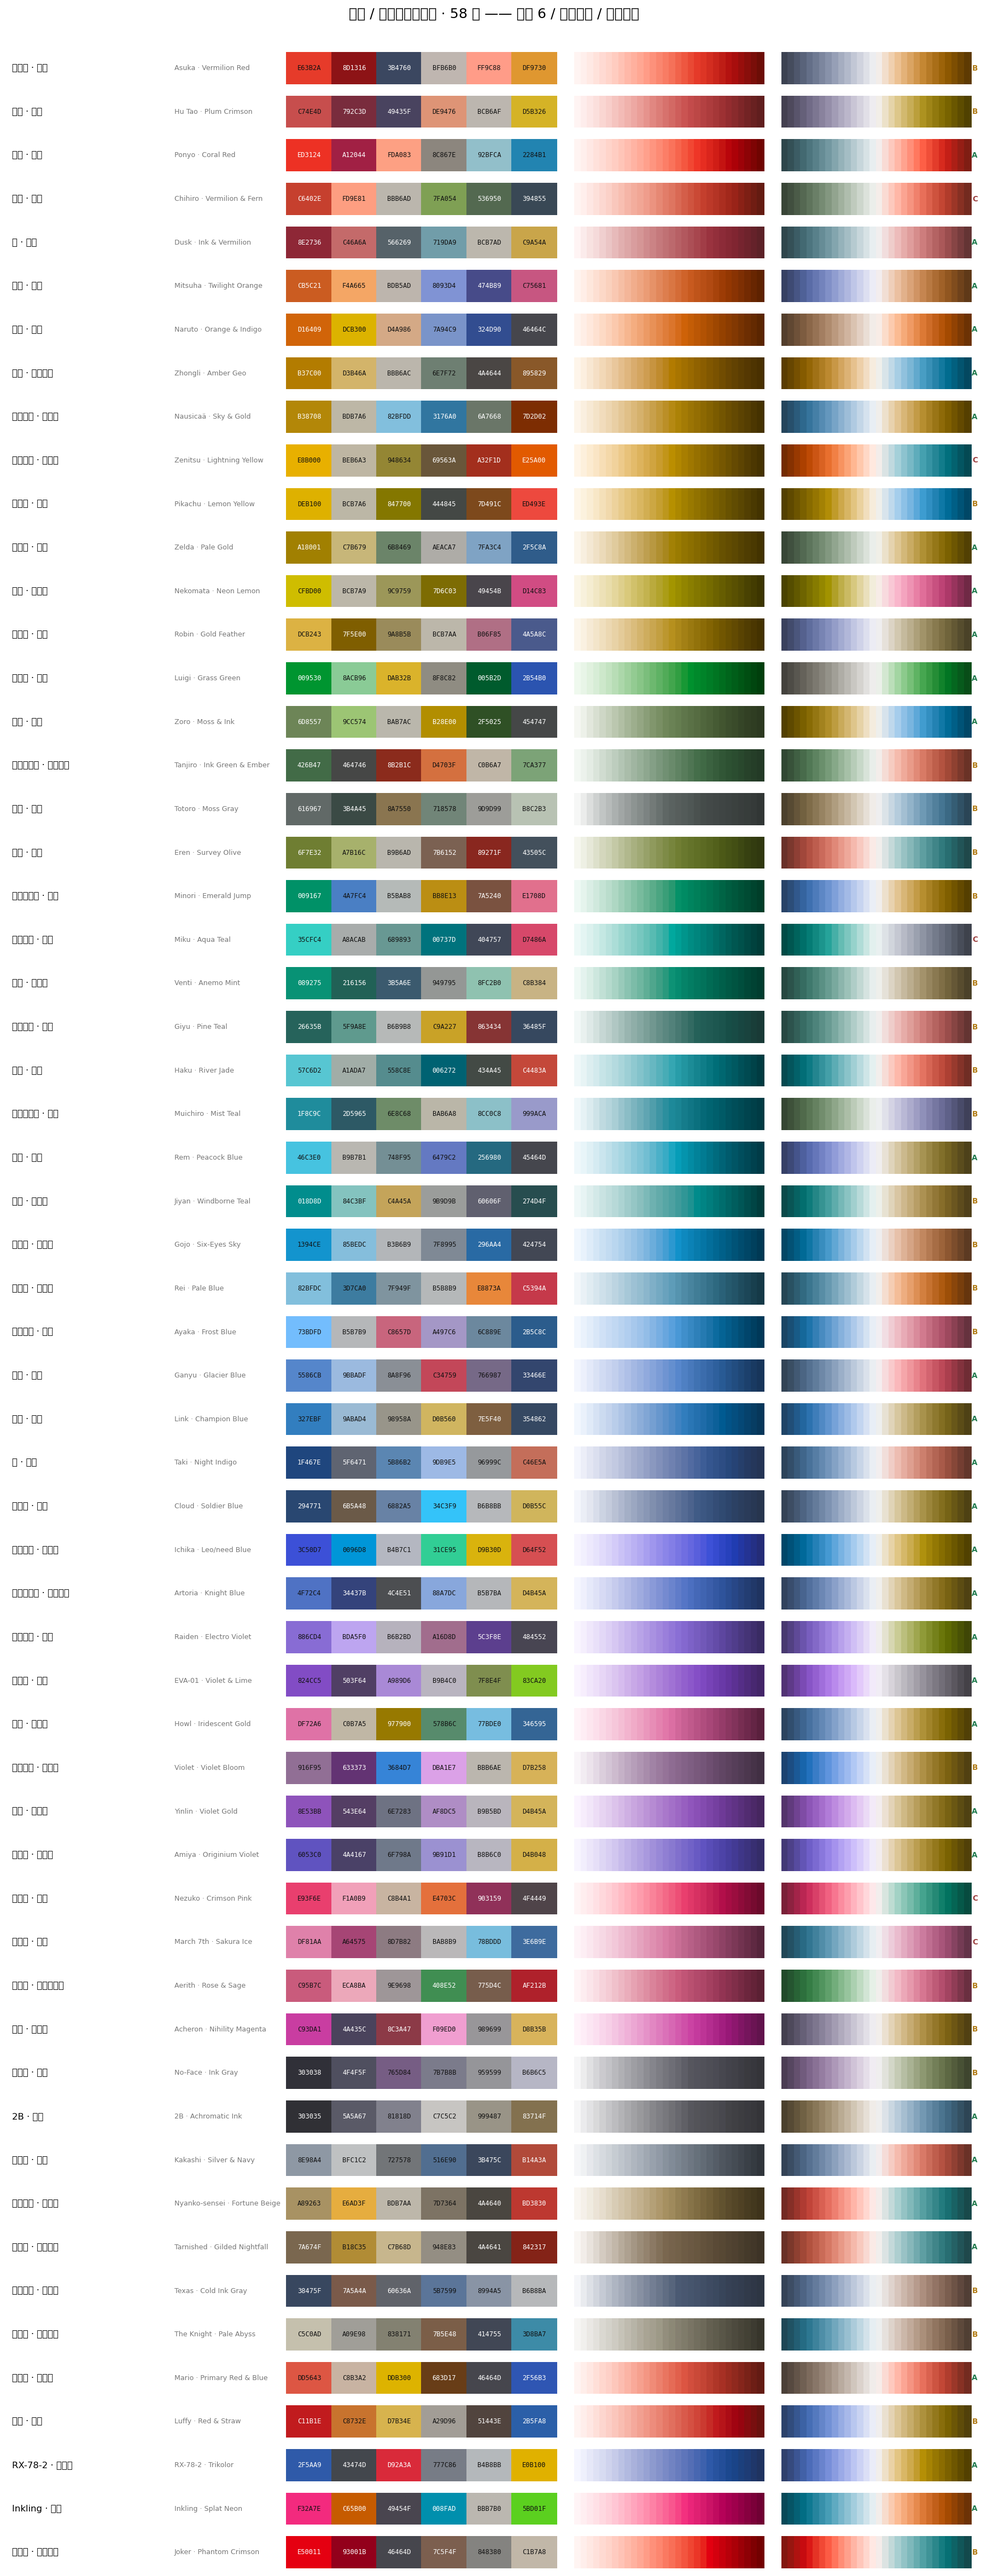
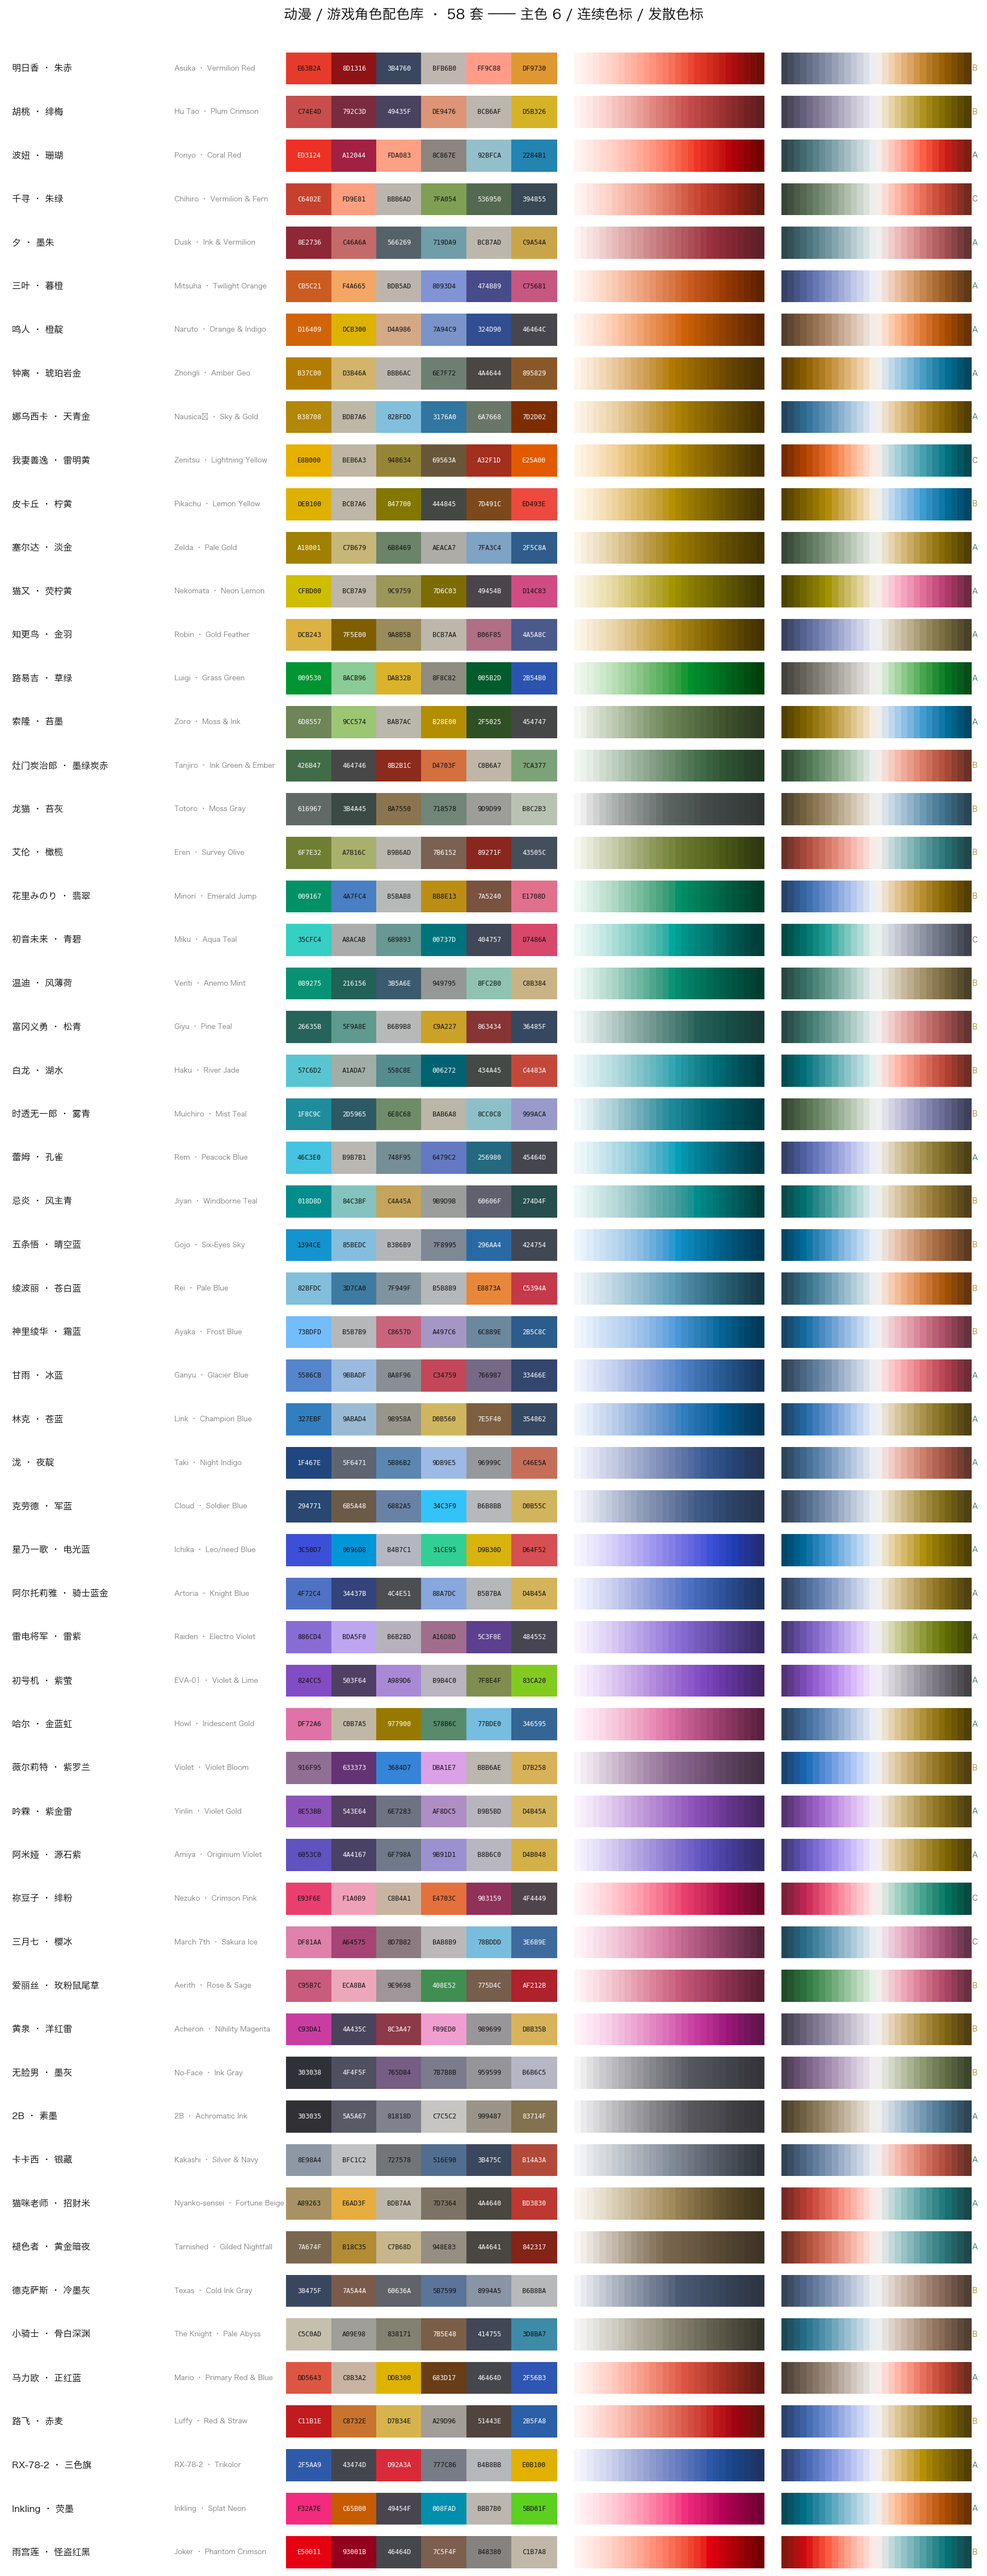
修复 README 配图里中文全变方框：sheet2.py 的字体名单只有 Linux 字体
sheet2.py 写死了 ['WenQuanYi Zen Hei','Noto Sans CJK SC','DejaVu Sans']，
三个里前两个是 Linux 字体，macOS 上一个都没装，matplotlib 于是**静默**退到
DejaVu Sans —— 它没有中文字形，整张图的中文全渲染成方框。这次扩库重跑
make docs 时就是在 macOS 上生成的，所以图坏了。

改成走 anime_palettes.use_cjk_font() 自动挑系统里真装了的字体（本机选中
Hiragino Sans GB，缺字警告从 8 条降到 0），别再手写第二份字体名单 ——
anime_palettes 里那份 CJK_FONTS 已经覆盖 mac/Linux/Windows。

顺带让它挑不到字体时直接报错退出。这张图要放进 README，坏了没有任何测试会红
（CI 的 build 关不比对 PNG 字节），宁可 make docs 失败也不要悄悄产出一张
中文全是方框的图。

Claude-Session: https://claude.ai/code/session_012zuwo5xLjutKZYu2fSJgy5

Changed region(s): [[0.3413, 0.0, 0.4343, 0.0312], [0.5274, 0.0, 0.5584, 0.0312], [0.031, 0.5934, 0.062, 0.6246]]

diff --git a/src/sheet2.py b/src/sheet2.py
@@ -1,10 +1,27 @@
 import os
+import sys
 import json, matplotlib
 matplotlib.use('Agg')
 import matplotlib.pyplot as plt
 from matplotlib.patches import Rectangle
-plt.rcParams['font.sans-serif']=['WenQuanYi Zen Hei','Noto Sans CJK SC','DejaVu Sans']
-plt.rcParams['axes.unicode_minus']=False
+
+# 中文字体：走 anime_palettes.use_cjk_font() 自动挑一个系统里真的装了的。
+# 别再在这里手写字体名单 —— 原来写死的 ['WenQuanYi Zen Hei','Noto Sans CJK SC','DejaVu Sans']
+# 全是 Linux 字体，在 macOS 上一个都没有，matplotlib 会**静默**退到 DejaVu Sans，
+# 而它没有中文字形，于是整张图的中文全变成方框（tofu）。这张图是要放进 README 的，
+# 坏了没有任何测试会红 —— CI 的 build 关不比对 PNG 字节。所以下面挑不到就直接报错退出，
+# 宁可 make docs 失败，也不要悄悄产出一张中文全是方框的图。
+sys.path.insert(0, os.path.dirname(os.path.dirname(os.path.abspath(__file__))))
+import anime_palettes as ap  # noqa: E402
+
+_font = ap.use_cjk_font()
+if not _font:
+    raise SystemExit(
+        "找不到任何中文字体，生成出来的图中文会全变成方框。\n"
+        f"在 {', '.join(ap.CJK_FONTS)} 里装一个再跑。\n"
+        "（macOS 自带 PingFang SC / Heiti SC；Linux 可装 fonts-noto-cjk）"
+    )
+
 os.makedirs('build', exist_ok=True)
 lib=json.load(open('library.json'))
 n=len(lib)
